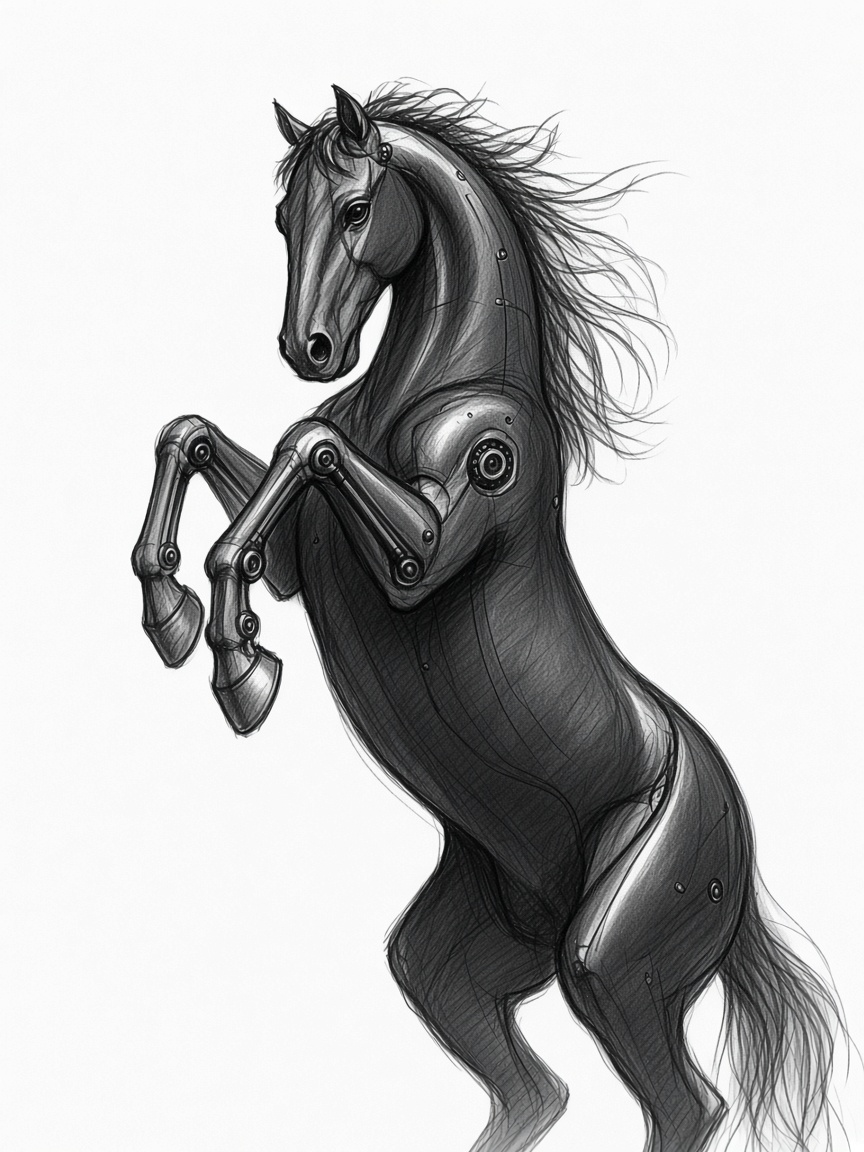
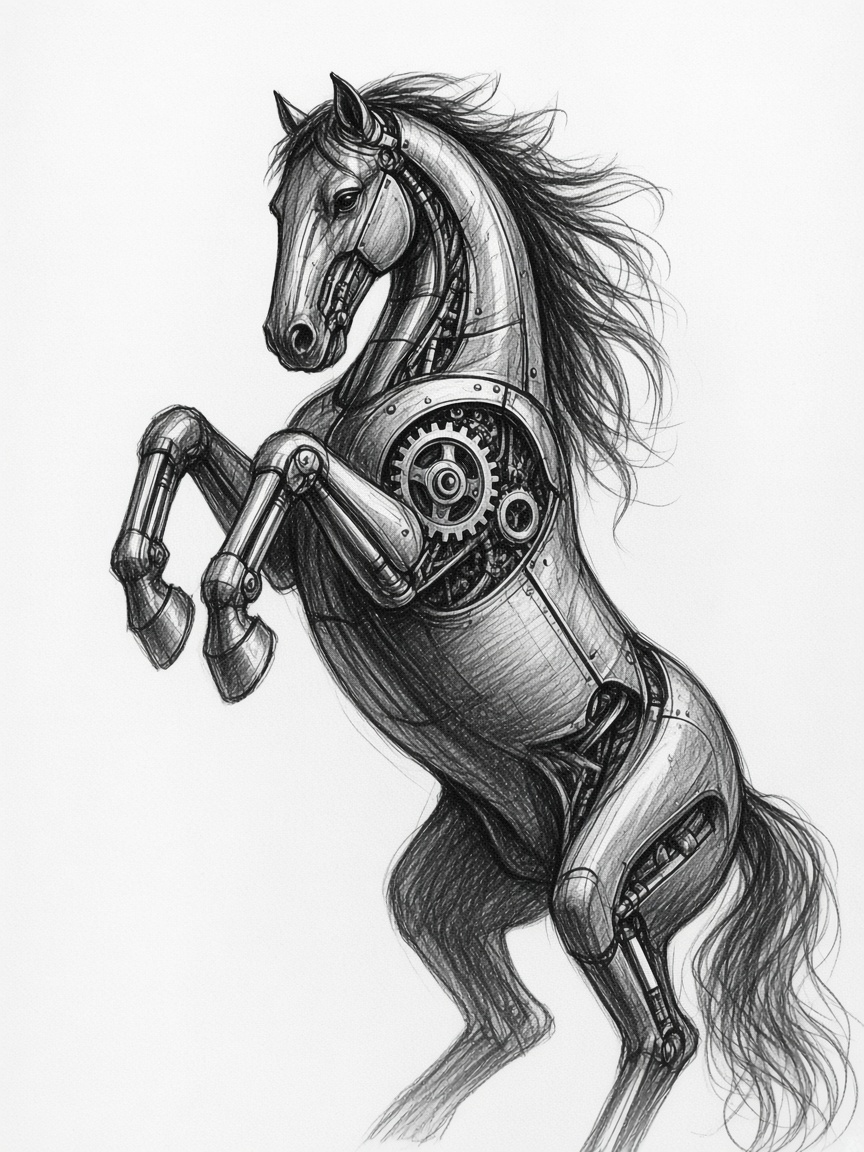
Replace horse with pencil sketch showing gears and pistons

diff --git a/index.html b/index.html
@@ -4,7 +4,7 @@
     <meta charset="utf-8" />
     <meta name="viewport" content="width=device-width, initial-scale=1" />
     <title>Muhammad Maalik</title>
-    <link rel="stylesheet" href="./styles.css?v=7" />
+    <link rel="stylesheet" href="./styles.css?v=8" />
   </head>
   <body>
     <a class="skip" href="#drawers">Skip to the folders</a>
@@ -171,8 +171,8 @@
 
         <aside class="mechanical-horse" aria-label="A hand-drawn rearing horse assembled from dark metal and machinery">
           <img
-            src="./public/images/mechanical-horse-sketch.jpg"
-            alt="Original charcoal sketch of a rearing black horse with subtle metal seams, pistons, and exposed gears"
+            src="./public/images/mechanical-horse-sketch.jpg?v=2"
+            alt="Pencil sketch of a rearing black horse with an exposed cogwheel in its chest, piston legs, and riveted metal seams"
             width="864"
             height="1152"
           />

diff --git a/styles.css b/styles.css
@@ -161,7 +161,7 @@ p {
   display: block;
   width: 100%;
   height: auto;
-  filter: grayscale(1) contrast(1.04);
+  filter: grayscale(1) brightness(1.06) contrast(1.12);
   mix-blend-mode: multiply;
 }
 
